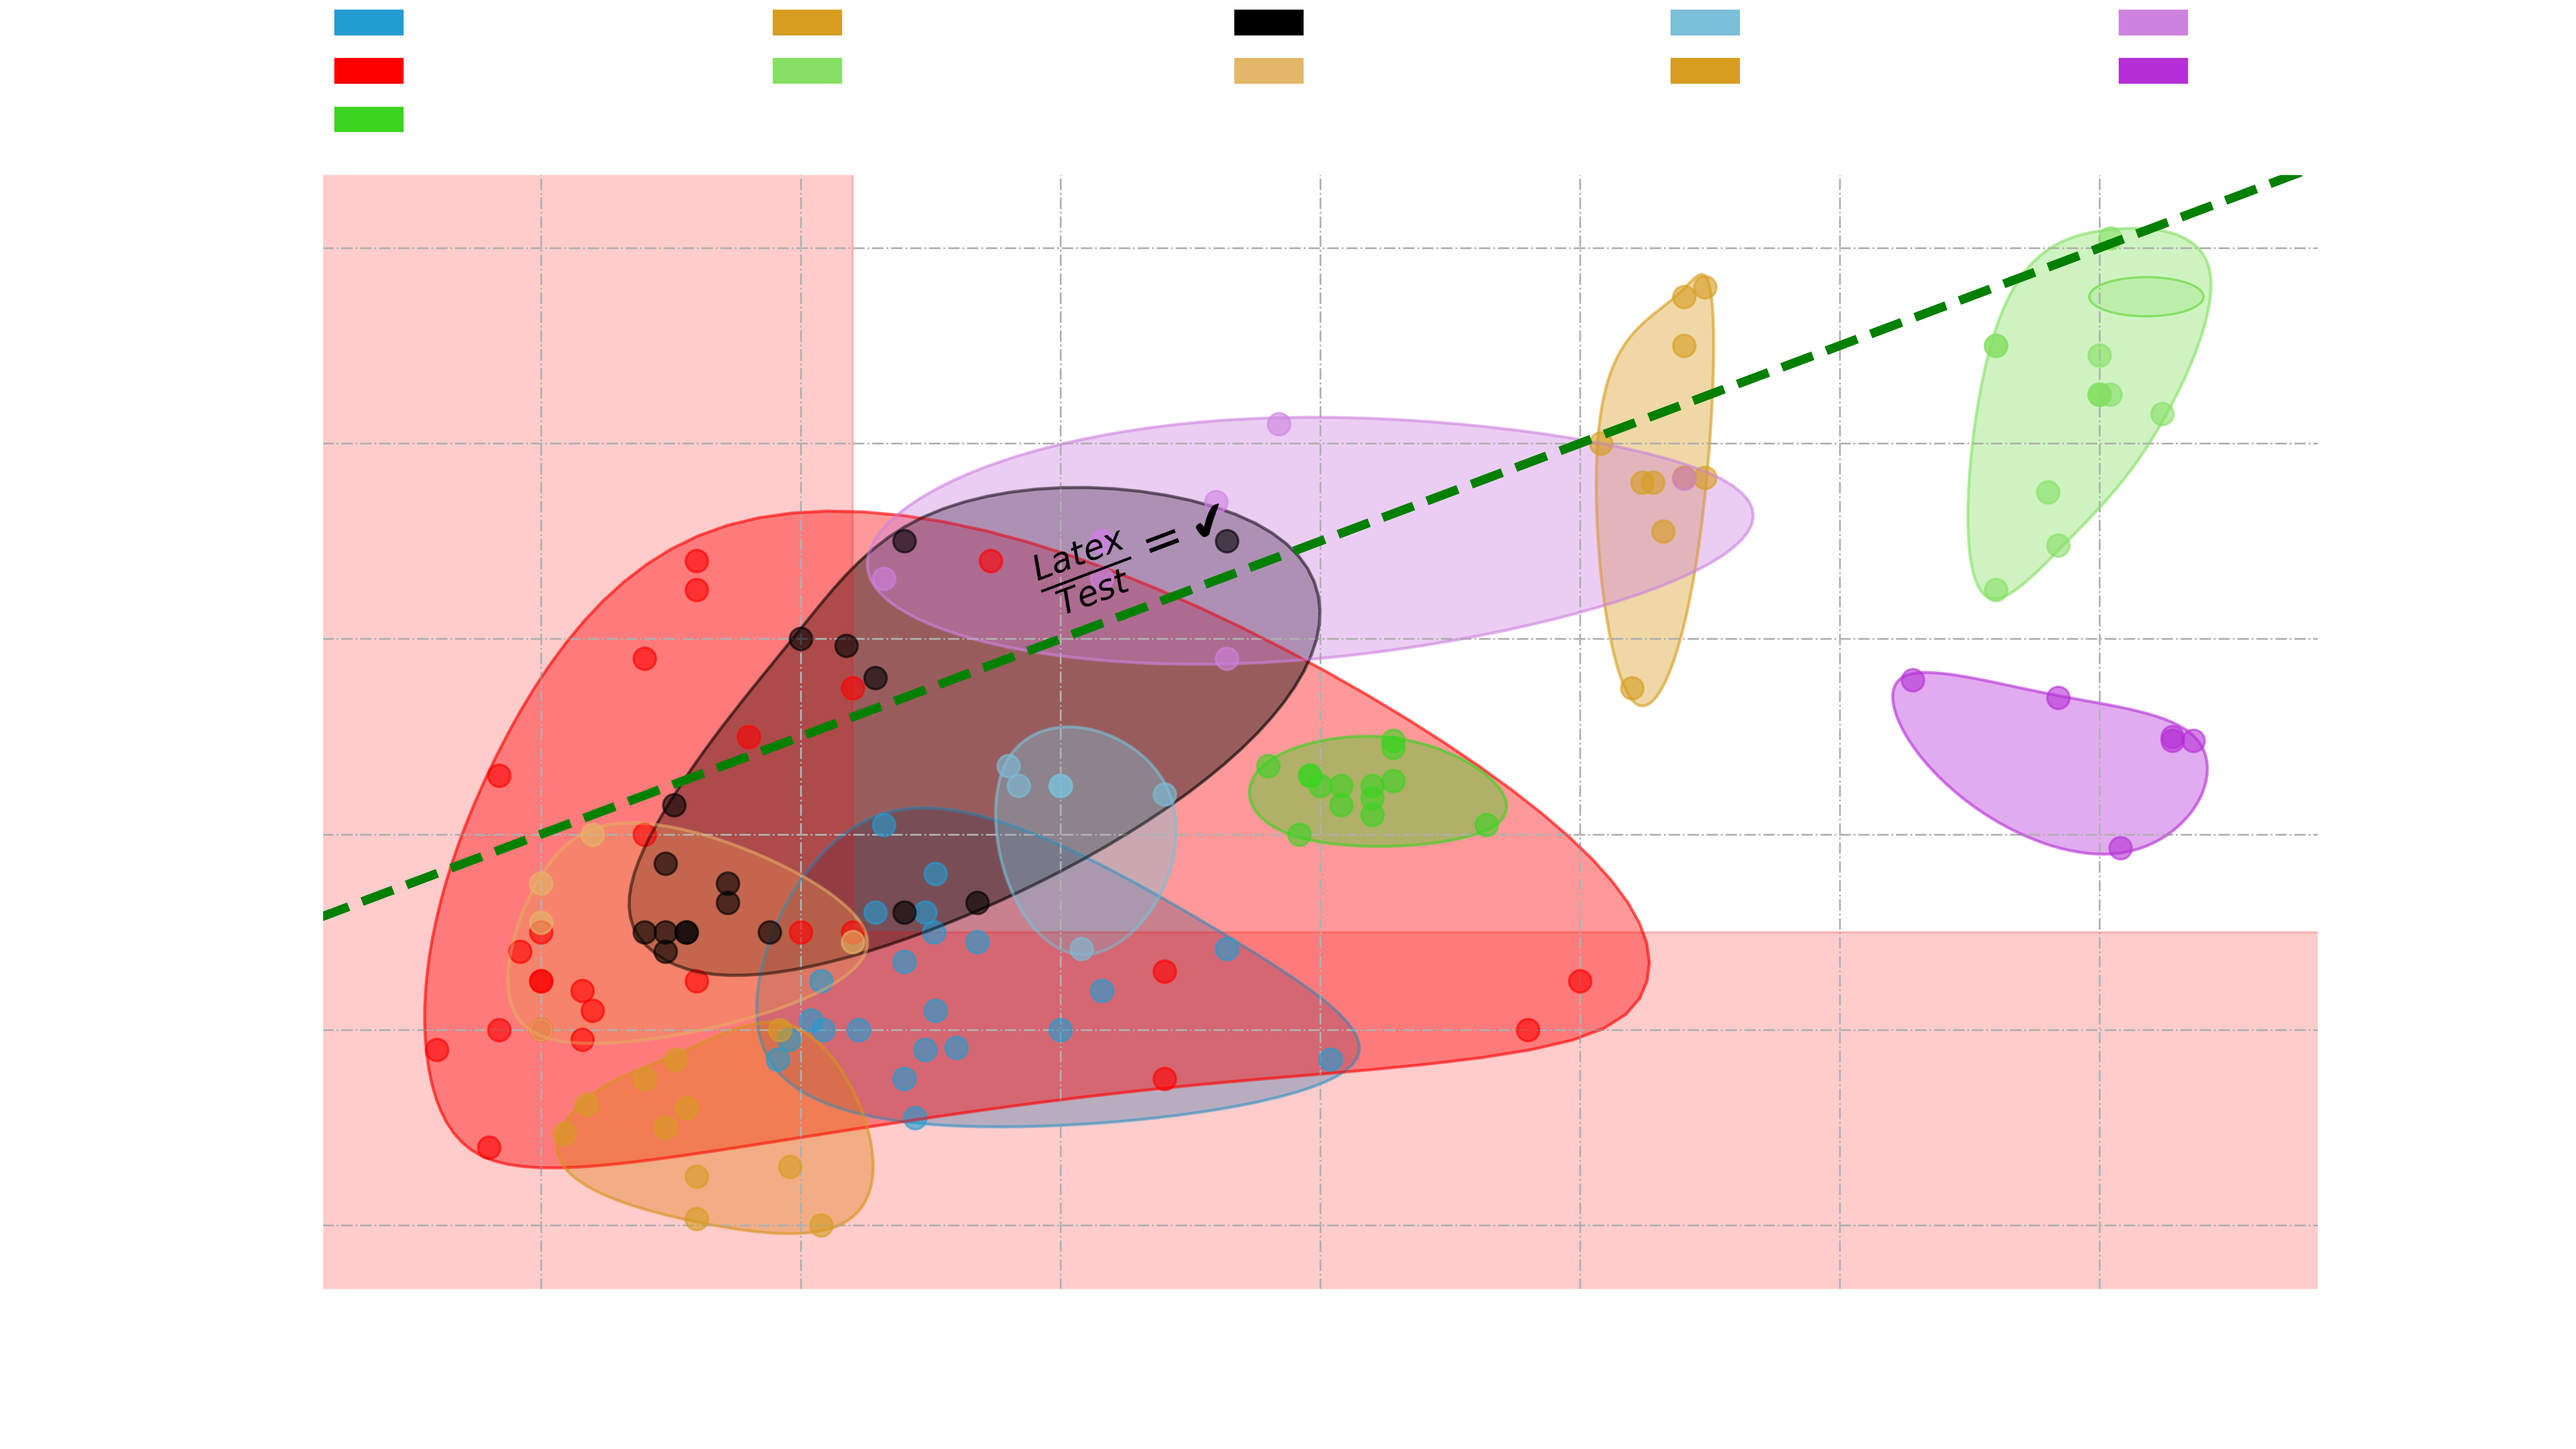
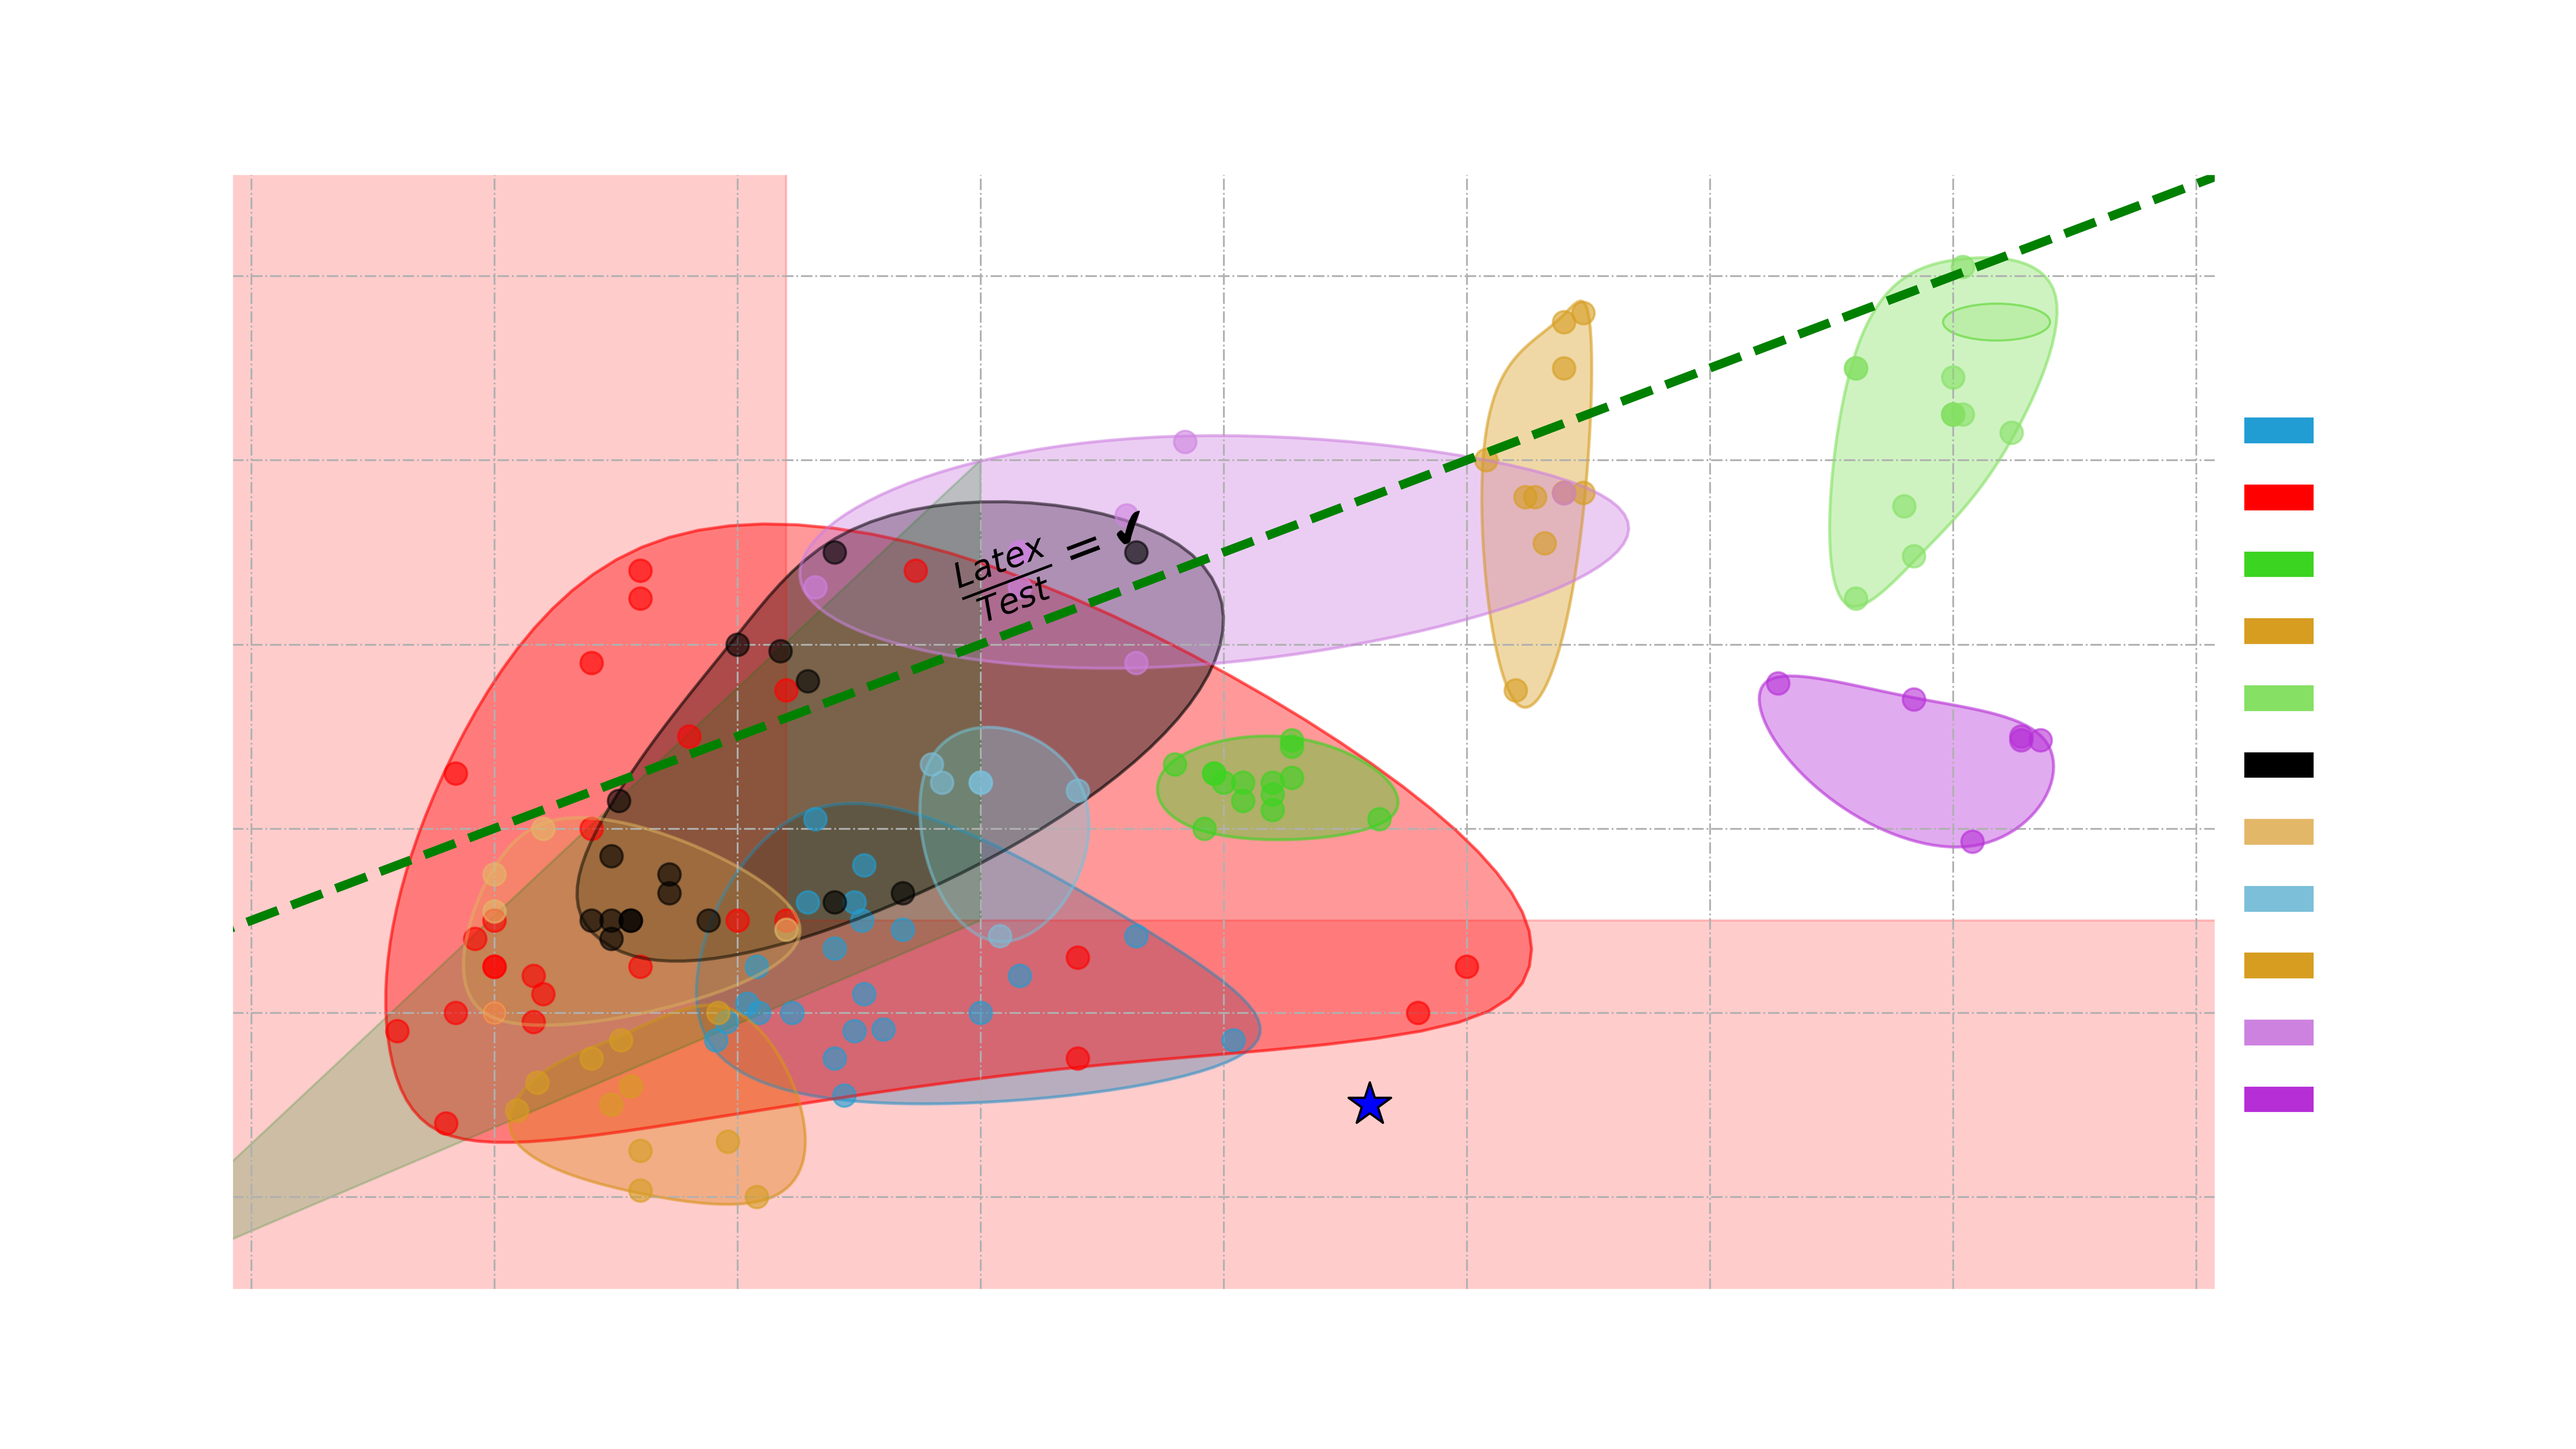
update Readme.md

diff --git a/plot_ashby.py b/plot_ashby.py
@@ -196,7 +196,6 @@ if __name__ == '__main__':
                         zorder = 0.5,
                     )
                 # .plt.tight_layout(pad=2.5)
-
                 # set x- and y-labels
                 try:
                     ax.set_xlabel(x_label, color = font_color)
@@ -207,13 +206,13 @@ if __name__ == '__main__':
                 raise ValueError("No Data plotet. Are the filters named correctly?")
 
             # : export :
-            if frame["export_file_name"] != None:
+            if frame["export_file_name"] == None:
+                plt.title(title, loc='left', size=40)
+                watermark(fig, alpha=0.7, pos=[0.72, 0.13], size=.13)
                 
-                ax.tick_params(colors=font_color)     # Achsenbeschriftungen
+                plt.show()
+            else:
+                ax.tick_params(colors=font_color)
                 ax.spines[:].set_color(font_color)
 
                 plt.savefig(os.path.join('export', frame["export_file_name"]), dpi=300, transparent=True)
-                plt.show()
-            else:
-                plt.title(title, loc='left', size=40)
-                watermark(fig, alpha=0.7, pos=[0.72, 0.13], size=.13)

diff --git a/README.md b/README.md
@@ -7,7 +7,6 @@
  * export the plot transparent with white font or inset a water mark
  * automatic display area
  * log and semilog spaces
- * 
  * generation of multiple plots at once
  * easy language switch
  * and much more ...
@@ -27,6 +26,6 @@ Um den Code ganz auf unsere Bedürfnisse anpassen zu können haben wir ihn auf u
 1. VSC: Python extension installieren
 2. Python interpreter wählen: 
    VSC: Strg+Shift+P → Python:Select Interpreter → Enter Path → Find → .\Ashby\Scrips\python.exe
-3. Excel-Tabelle in .\material_properties\ ablegen.
-4. Einstellungen in **plot_ashby.py** anpassen (Zeile 50-244) und file über das Dreieck oben rechts ausführen.
-5. Der Plot wir in einem Popup erscheinen und kann bei belieben loal gespeichert werden 
+3. Excel-Tabelle in .\material_properties\ ablegen
+4. Einstellungen in **config.json** anpassen (doku folgt)
+5. plot_ashby.py ausführen
